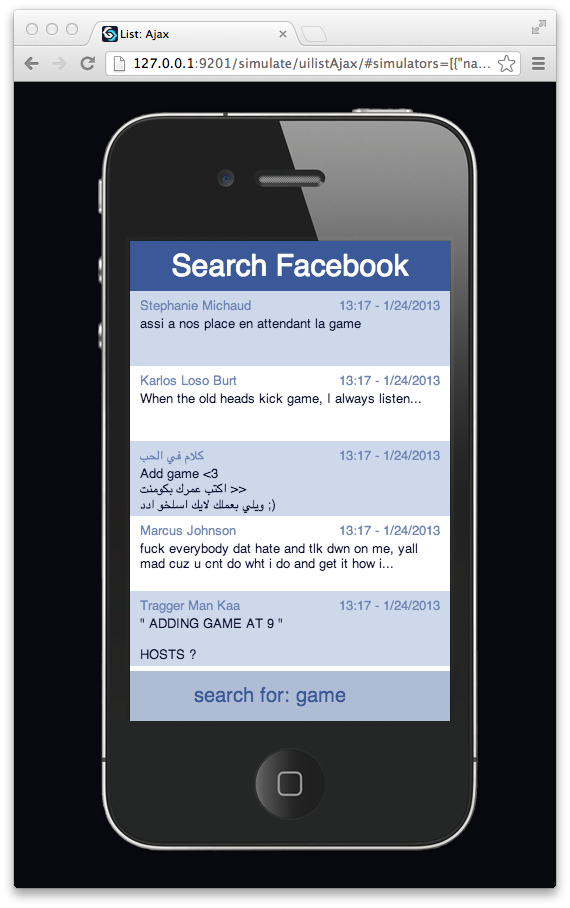
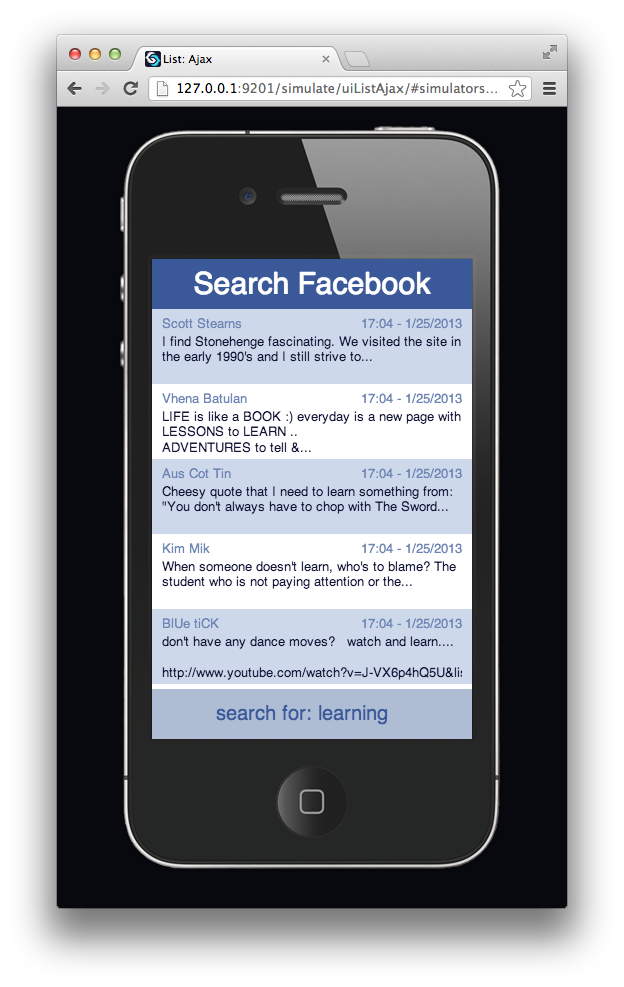
demo styled

diff --git a/src/ui/list-ajax/src/Application.js b/src/ui/list-ajax/src/Application.js
@@ -20,54 +20,56 @@ import ui.View as View;
 
 import util.ajax as ajax;
 
-var COLOR1 = 'rgb(59,89,152)';
-var COLOR2 = 'rgb(109,132,180)';
-var COLOR3 = 'rgb(205,216,234)';
-var COLOR4 = 'rgb(255,255,255)';
-var COLOR5 = 'rgb(175,189,212)';
-var COLOR6 = 'rgb(18,20,54)';
+var COLOR1 = "rgb(59,89,152)";
+var COLOR2 = "rgb(109,132,180)";
+var COLOR3 = "rgb(205,216,234)";
+var COLOR4 = "rgb(255,255,255)";
+var COLOR5 = "rgb(175,189,212)";
+var COLOR6 = "rgb(18,20,54)";
+
+var startSearch = "learning";
 
 var InfoDataSource = Class(GCDataSource, function (supr) {
 	this.init = function (opts) {
 		opts = merge(
 			opts,
 			{
-				key: 'id',
+				key: "id",
 				reverse: true,
 				//Sort by oldest last
 				sorter: function (data) { return data.created_time; }
 			}
 		);
 
-		supr(this, 'init', [opts]);
+		supr(this, "init", [opts]);
 
-		this._searchFor = 'game';
+		this._searchFor = startSearch;
 
 		this.load();
 	};
 
 	this.load = function () {
 		this.clear();
-		this.emit('Clear');
+		this.emit("Clear");
 
 		//Search Facebook
 		ajax.get(
 			{
-				url: 'http://graph.facebook.com/search',
-				headers: {'Content-Type': 'text/plain'},
+				url: "http://graph.facebook.com/search",
+				headers: {"Content-Type": "text/plain"},
 				//This data will be added as query parameters
-				data: {q: this._searchFor, type: 'post'},
+				data: {q: this._searchFor, type: "post"},
 				//Parse the result as JSON
-				type: 'json'
+				type: "json"
 			},
 			//call `onData` when the search results are loaded
-			bind(this, 'onData')
+			bind(this, "onData")
 		);
 	};
 
 	//Customize the sort function, add indices to the items after sorting
 	this.sort = function () {
-		supr(this, 'sort');
+		supr(this, "sort");
 
 		var i = this._byIndex.length;
 		while (i) this._byIndex[--i].index = i;
@@ -75,8 +77,8 @@ var InfoDataSource = Class(GCDataSource, function (supr) {
 
 	//Prepend zeros to a string
 	this._leadingZero = function (s, length) {
-		s += '';
-		while (s.length < length) s = '0' + s;
+		s += "";
+		while (s.length < length) s = "0" + s;
 		return s;
 	};
 
@@ -88,8 +90,8 @@ var InfoDataSource = Class(GCDataSource, function (supr) {
 				var item = response.data[i];
 				var date = new Date(item.created_time);
 
-				item.posted = this._leadingZero(date.getHours(), 2) + ':' + this._leadingZero(date.getMinutes(), 2) + ' - ' +
-					(date.getMonth() + 1) + '/' + date.getDate() + '/' + date.getFullYear();
+				item.posted = this._leadingZero(date.getHours(), 2) + ":" + this._leadingZero(date.getMinutes(), 2) + " - " +
+					(date.getMonth() + 1) + "/" + date.getDate() + "/" + date.getFullYear();
 			}
 
 			//Add the list to the data source
@@ -97,10 +99,10 @@ var InfoDataSource = Class(GCDataSource, function (supr) {
 			//Sort the list
 			this.sort();
 			//Left the view know that the data is ready
-			this.emit('Loaded');
+			this.emit("Loaded");
 		} else {
 			//Something went wrong, publis the `Error` event so that a message can be displayed
-			this.emit('Error');
+			this.emit("Error");
 		}
 	};
 
@@ -126,9 +128,9 @@ exports = Class(GC.Application, function () {
 
 		//Set up the datasource.
 		this._infoData = new InfoDataSource();
-		this._infoData.on('Clear', bind(this, 'onClear'));
-		this._infoData.on('Loaded', bind(this, 'onLoaded'));
-		this._infoData.on('Error', bind(this, 'onError'));
+		this._infoData.on("Clear", bind(this, "onClear"));
+		this._infoData.on("Loaded", bind(this, "onLoaded"));
+		this._infoData.on("Error", bind(this, "onError"));
 
 		this._title = new TextView({
 			superview: this,
@@ -137,7 +139,7 @@ exports = Class(GC.Application, function () {
 			width: device.width,
 			height: 50,
 			size: 30,
-			text: 'Search Facebook',
+			text: "Search Facebook",
 			color: COLOR4,
 			backgroundColor: COLOR1
 		});
@@ -149,7 +151,7 @@ exports = Class(GC.Application, function () {
 			width: device.width,
 			height: device.height - 100,
 			size: 18,
-			text: 'Searching for: game',
+			text: "Searching for: " + startSearch,
 			color: COLOR6
 		});
 
@@ -162,10 +164,10 @@ exports = Class(GC.Application, function () {
 			height: device.height - 100,
 			//Use the dataSource:
 			dataSource: this._infoData,
-			selectable: 'multi',
+			selectable: "multi",
 			maxSelections: 10,
 			scrollX: false,
-			getCell: bind(this, 'getCell'),
+			getCell: bind(this, "getCell"),
 			visible: false
 		});
 
@@ -176,12 +178,12 @@ exports = Class(GC.Application, function () {
 			width: device.width / 2,
 			height: 50,
 			size: 20,
-			text: 'search for:',
-			horizontalAlign: 'right',
+			text: "search for:",
+			horizontalAlign: "right",
 			color: COLOR1,
 			backgroundColor: COLOR5
 		});
-		this._searchLabel.onInputSelect = bind(this, 'onSelectSeach');
+		this._searchLabel.onInputSelect = bind(this, "onSelectSeach");
 		this._search = new TextPromptView({
 			superview: this,
 			x: device.width / 2,
@@ -189,15 +191,15 @@ exports = Class(GC.Application, function () {
 			width: device.width / 2,
 			height: 50,
 			size: 20,
-			text: 'game',
-			horizontalAlign: 'left',
+			text: startSearch,
+			horizontalAlign: "left",
 			padding: [0, 0, 0, 6],
 			color: COLOR1,
 			backgroundColor: COLOR5,
-			value: 'game',
-			prompt: 'Enter a search term:'
+			value: startSearch,
+			prompt: "Enter a search term:"
 		});
-		this._search.on('Change', bind(this, 'onChangeSearch'));
+		this._search.on("Change", bind(this, "onChangeSearch"));
 	};
 
 	//This callback is called when the search label is clicked
@@ -208,13 +210,13 @@ exports = Class(GC.Application, function () {
 	//When there's a new text entered in the prompt dialog then this callback is called
 	//and Facebook is searched again
 	this.onChangeSearch = function (value) {
-		this._loadingLabel.setText('Searching for: ' + value);
+		this._loadingLabel.setText("Searching for: " + value);
 		this._infoData.setSearchFor(value);
 	};
 
 	//Something in the request went wrong
 	this.onError = function () {
-		this._loadingLabel.setText('Failed to load data');
+		this._loadingLabel.setText("Failed to load data");
 	};
 
 	//This function is called when a new search starts, the list is hidden and the searching message is shown
@@ -241,7 +243,7 @@ var InfoCell = Class(Cell, function (supr) {
 		opts.width = device.width;
 		opts.height = 75;
 
-		supr(this, 'init', [opts]);
+		supr(this, "init", [opts]);
 
 		//The TextView showing who posted the message
 		this._from = new TextView({
@@ -251,7 +253,7 @@ var InfoCell = Class(Cell, function (supr) {
 			width: device.width - 20,
 			height: 20,
 			size: 13,
-			horizontalAlign: 'left',
+			horizontalAlign: "left",
 			color: COLOR2
 		});
 		//The time and date when the message was posted
@@ -262,7 +264,7 @@ var InfoCell = Class(Cell, function (supr) {
 			width: device.width - 20,
 			height: 20,
 			size: 13,
-			horizontalAlign: 'right',
+			horizontalAlign: "right",
 			color: COLOR2
 		});
 		//The message
@@ -273,8 +275,8 @@ var InfoCell = Class(Cell, function (supr) {
 			width: device.width - 20,
 			height: 47,
 			size: 13,
-			horizontalAlign: 'left',
-			verticalAlign: 'top',
+			horizontalAlign: "left",
+			verticalAlign: "top",
 			wrap: true,
 			autoFontSize: false,
 			autoSize: false,
@@ -287,12 +289,12 @@ var InfoCell = Class(Cell, function (supr) {
 		if (s.length > length) {
 			var i = Math.max(0, length - 10);
 			while (i < length - 1) {
-				if (s[i] === ' ') {
+				if (s[i] === " ") {
 					break;
 				}
 				i++;
 			}
-			s = s.substr(0, i) + '...';
+			s = s.substr(0, i) + "...";
 		}
 		return s;
 	};
@@ -304,11 +306,11 @@ var InfoCell = Class(Cell, function (supr) {
 		this.style.backgroundColor = ((data.index & 1) === 0) ? COLOR3 : COLOR4;
 
 		//Show the first 40 characters of the name
-		this._from.setText(this._toLength(data.from.name || '', 40));
+		this._from.setText(this._toLength(data.from.name || "", 40));
 		//Show the time and date
 		this._posted.setText(data.posted);
 		//Show the first 100 characters of the message
-		this._message.setText(this._toLength(data.message || '', 100));
+		this._message.setText(this._toLength(data.message || "", 100));
 	};
 
 	//Called when a cell is put on screen.

diff --git a/src/ui/slider/src/Application.js b/src/ui/slider/src/Application.js
@@ -343,3 +343,5 @@ var SliderViewSetting = Class(ButtonView, function (supr) {
 		this._callback(this._options[this._optionIndex]);
 	};
 });
+//The output of this demo should look like this:
+//<img src="./doc/screenshot.png" alt="scrollview screenshot" class="screenshot">

diff --git a/src/ui/scrollview-basic/src/Application.js b/src/ui/scrollview-basic/src/Application.js
@@ -35,4 +35,5 @@ exports = Class(GC.Application, function () {
 	};
 });
 
+//The output of this demo should look like this:
 //<img src="./doc/screenshot.png" alt="scrollview screenshot" class="screenshot">
